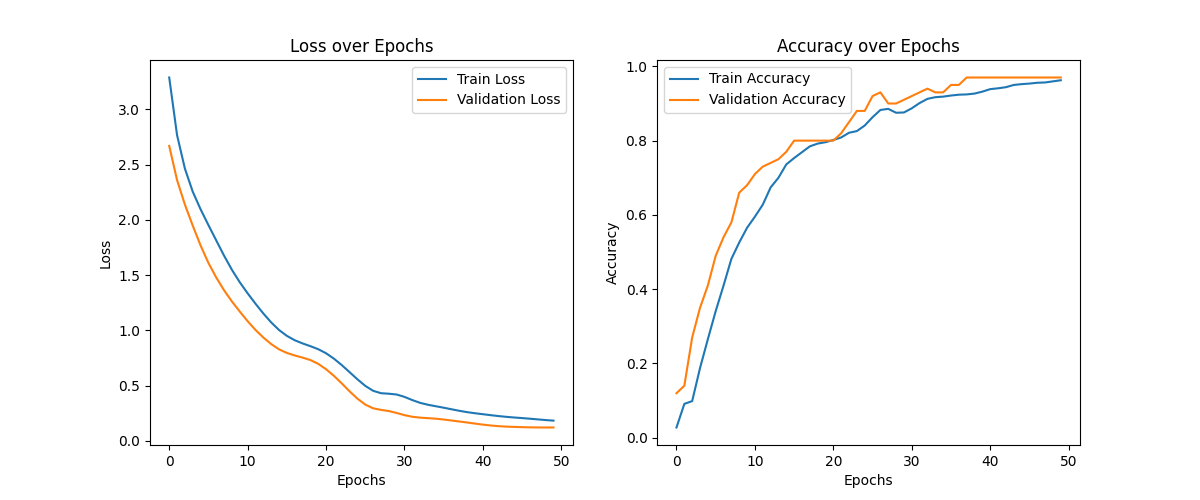
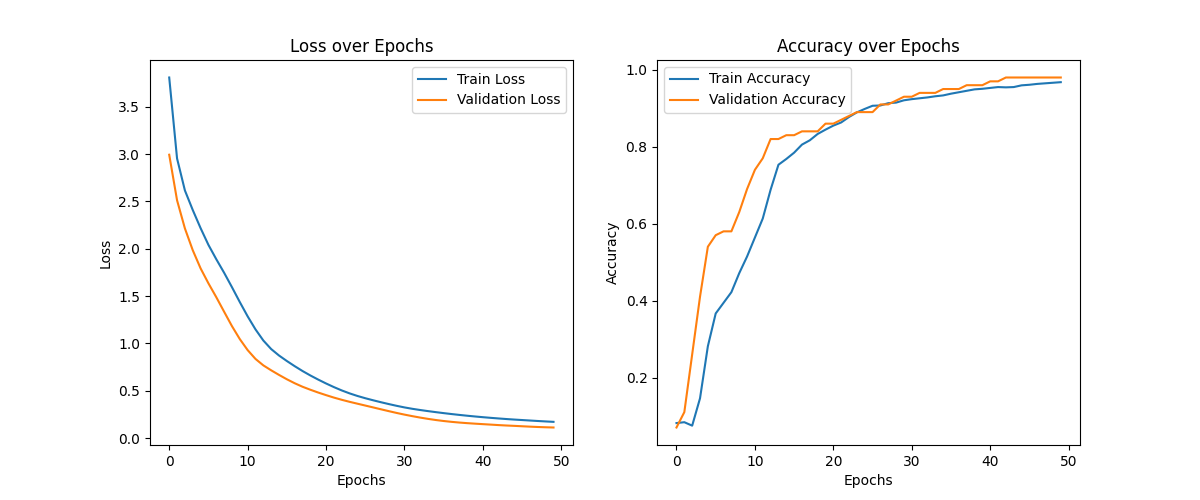
Fixed runner.py incompatibilities

diff --git a/runner.py b/runner.py
@@ -33,8 +33,8 @@ if __name__ == "__main__":
     use_gpu = True if use_gpu_input == 'y' else False
 
     # Define the architecture of the network
-    hidden_layers = [5, 5]  # Example: two hidden layers with 5 neurons each
-    activations = ['relu', 'relu']  # ReLU activations for the hidden layers
+    hidden_layers = [10, 10, 3]  # Two hidden layers with 10 neurons each, and output layer with 3 neurons
+    activations = ['relu', 'relu', 'softmax']  # ReLU for hidden layers, softmax for output layer
 
     # Initialize the CrossValidator
     k_folds = 10 # Set the number of folds for cross-validation
